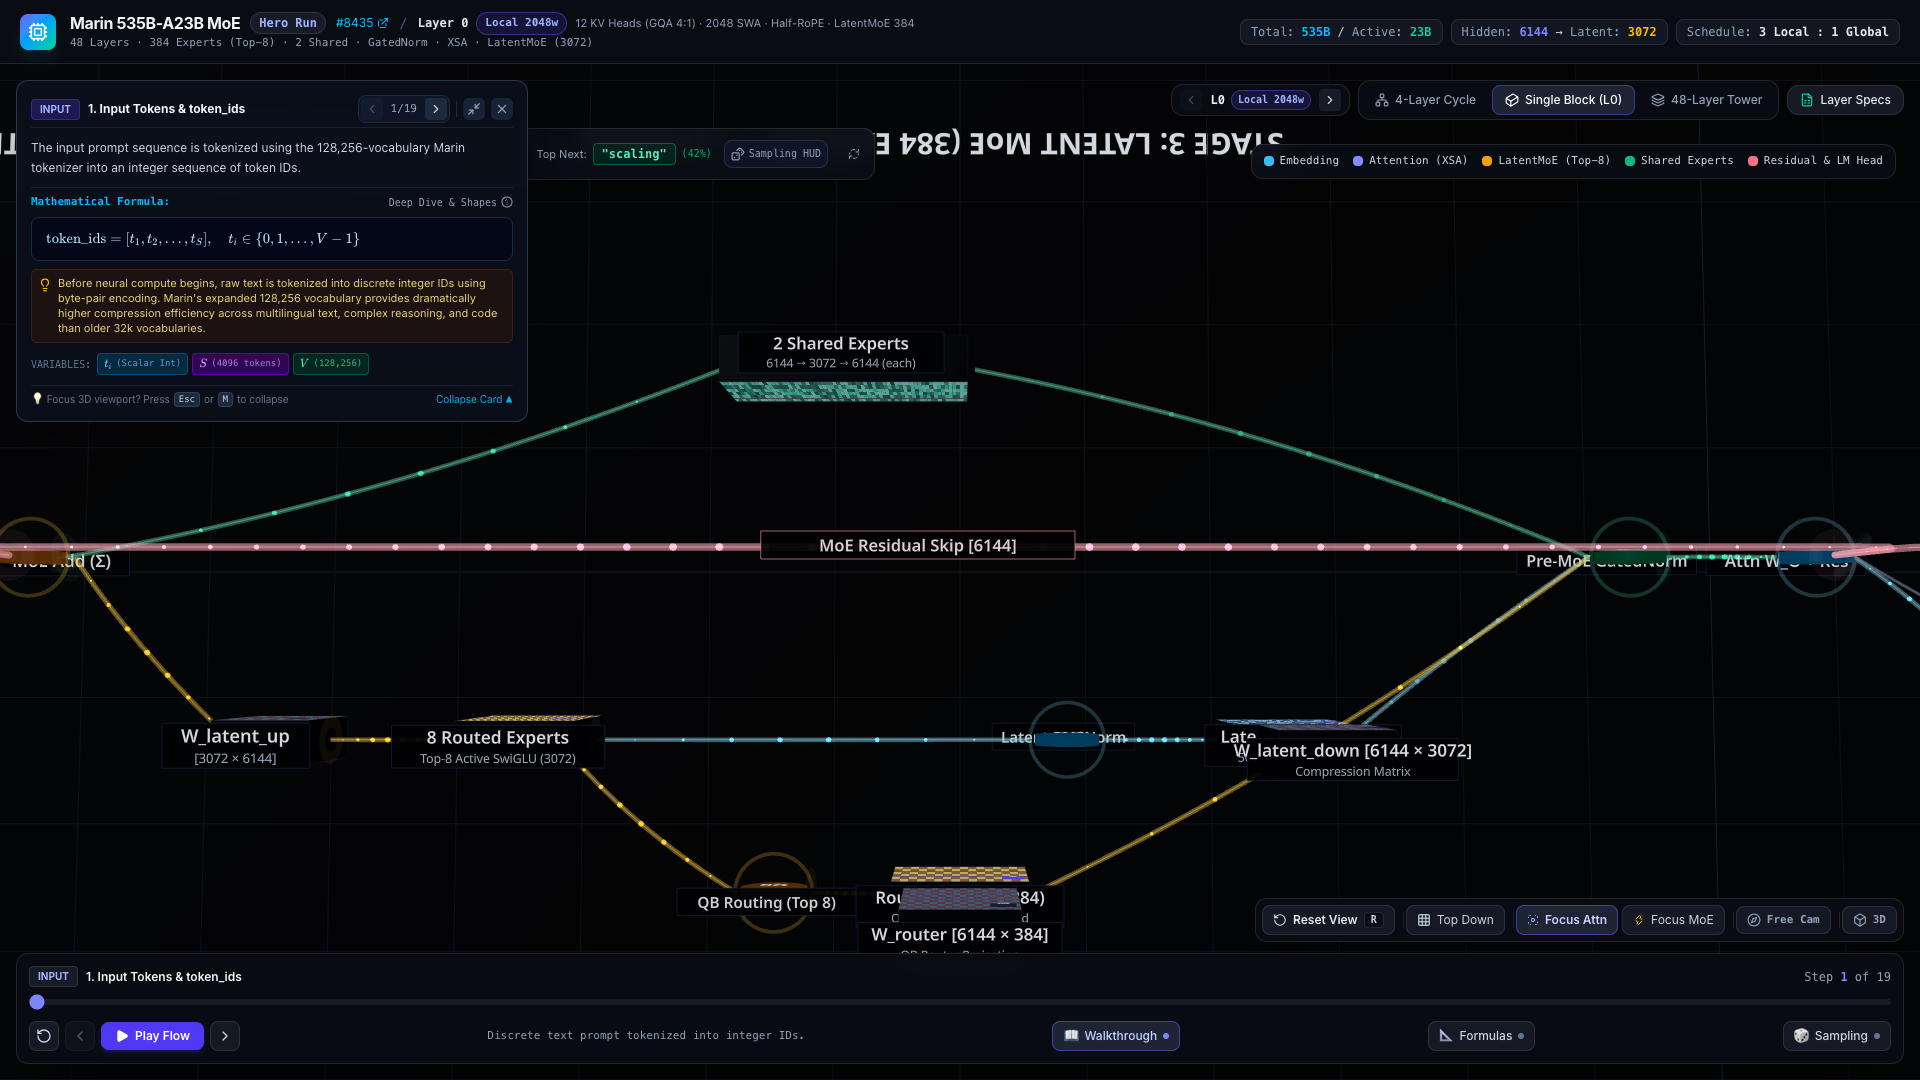
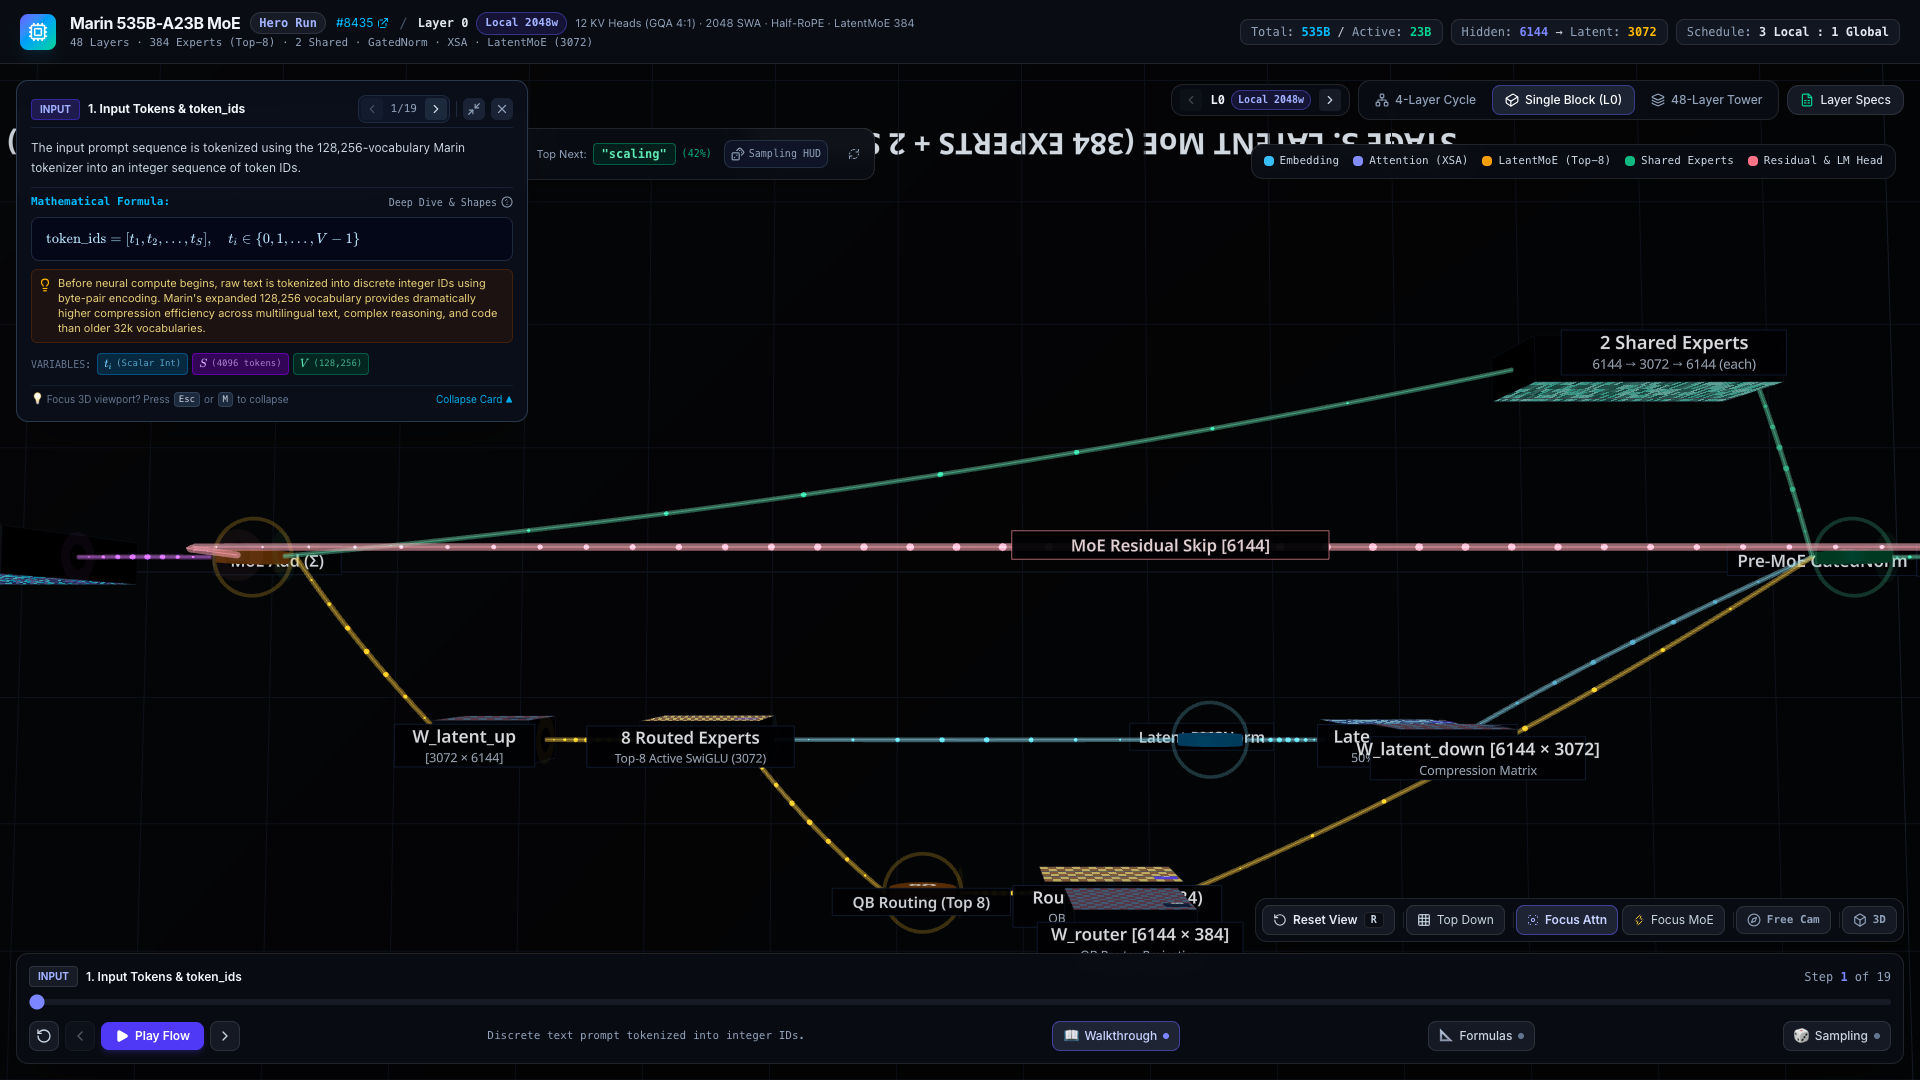
fix(visualizer): finalize Zero-X-Collision layout with precise 100% non-overlapping coordinate spread

diff --git a/src/components/ThreeScene/MicroBlockView.tsx b/src/components/ThreeScene/MicroBlockView.tsx
@@ -645,7 +645,7 @@ export const MicroBlockView: React.FC<MicroBlockViewProps> = ({
       {/* Flow to Router */}
       <FlowConnection
         from={[16.55, 2.0, 0]}
-        to={[24.0, 1.8, -4.5]}
+        to={[25.0, 1.8, -4.5]}
         color="#f59e0b"
         isHighlighted={isFlowActive(isStep('router_qb_selection'), ['op_moe_gn', 'node_router'])}
         label="Router In"
@@ -656,7 +656,7 @@ export const MicroBlockView: React.FC<MicroBlockViewProps> = ({
         id="node_w_router"
         label="W_router [6144 × 384]"
         subLabel="QB Router Projection"
-        position={[25.0, 4.2, -4.5]}
+        position={[26.0, 4.2, -4.5]}
         size={[1.4, 1.6, 0.6]}
         gridRows={12}
         gridCols={16}
@@ -671,8 +671,8 @@ export const MicroBlockView: React.FC<MicroBlockViewProps> = ({
 
       {/* W_router Weight into Router */}
       <FlowConnection
-        from={[25.0, 3.4, -4.5]}
-        to={[25.0, 2.5, -4.5]}
+        from={[26.0, 3.4, -4.5]}
+        to={[26.0, 2.5, -4.5]}
         color="#64748b"
         tubeRadius={0.02}
         particleCount={4}
@@ -684,7 +684,7 @@ export const MicroBlockView: React.FC<MicroBlockViewProps> = ({
         id="node_router"
         label="Router (Top-8 of 384)"
         subLabel="QB Threshold & Sigmoid"
-        position={[25.0, 1.8, -4.5]}
+        position={[26.0, 1.8, -4.5]}
         size={[1.8, 1.4, 0.5]}
         gridRows={activationData.tokens.length}
         gridCols={16}
@@ -698,8 +698,8 @@ export const MicroBlockView: React.FC<MicroBlockViewProps> = ({
 
       {/* Router Matrix to QB Operator */}
       <FlowConnection
-        from={[25.9, 1.8, -4.5]}
-        to={[27.0, 1.8, -4.5]}
+        from={[26.9, 1.8, -4.5]}
+        to={[28.0, 1.8, -4.5]}
         color="#f59e0b"
         isHighlighted={isFlowActive(isStep('router_qb_selection'), ['node_router', 'op_router_qb'])}
       />
@@ -709,7 +709,7 @@ export const MicroBlockView: React.FC<MicroBlockViewProps> = ({
         id="op_router_qb"
         name="QB Routing (Top 8)"
         symbol="QB"
-        position={[27.5, 1.8, -4.5]}
+        position={[28.5, 1.8, -4.5]}
         color="#f59e0b"
         isHighlighted={isHighlighted('op_router_qb')}
         onHover={onHoverItem}
@@ -722,7 +722,7 @@ export const MicroBlockView: React.FC<MicroBlockViewProps> = ({
         id="node_experts_shared"
         label="2 Shared Experts"
         subLabel="6144 → 3072 → 6144 (each)"
-        position={[26.5, 2.2, 2.5]}
+        position={[19.0, 2.2, 2.5]}
         size={[64 * DIM_W, 1.6, 0.6]}
         gridRows={activationData.tokens.length}
         gridCols={64}
@@ -738,7 +738,7 @@ export const MicroBlockView: React.FC<MicroBlockViewProps> = ({
       {/* Full-Width mlp_in into 2 Shared Experts */}
       <FlowConnection
         from={[16.55, 2.0, 0]}
-        to={[24.8, 2.2, 2.5]}
+        to={[17.4, 2.2, 2.5]}
         color="#10b981"
         isHighlighted={isFlowActive(isStep('shared_experts_swiglu'), ['op_moe_gn', 'node_experts_shared'])}
         label="Full Width [6144]"
@@ -748,7 +748,7 @@ export const MicroBlockView: React.FC<MicroBlockViewProps> = ({
       {/* Branch to Latent Down */}
       <FlowConnection
         from={[16.55, 2.0, 0]}
-        to={[19.6, 1.0, -2.5]}
+        to={[21.1, 1.0, -2.5]}
         color="#38bdf8"
         isHighlighted={isFlowActive(isStep('latent_compression'), ['op_moe_gn', 'node_latent_down'])}
         label="Compress 6144→3072"
@@ -759,7 +759,7 @@ export const MicroBlockView: React.FC<MicroBlockViewProps> = ({
         id="node_w_latent_down"
         label="W_latent_down [6144 × 3072]"
         subLabel="Compression Matrix"
-        position={[20.5, 3.6, -2.5]}
+        position={[22.0, 3.4, -2.5]}
         size={[1.4, 1.4, 0.6]}
         gridRows={12}
         gridCols={12}
@@ -774,8 +774,8 @@ export const MicroBlockView: React.FC<MicroBlockViewProps> = ({
 
       {/* W_latent_down Weight into Latent Down Matrix */}
       <FlowConnection
-        from={[20.5, 2.8, -2.5]}
-        to={[20.5, 1.8, -2.5]}
+        from={[22.0, 2.6, -2.5]}
+        to={[22.0, 1.8, -2.5]}
         color="#64748b"
         tubeRadius={0.02}
         particleCount={4}
@@ -787,7 +787,7 @@ export const MicroBlockView: React.FC<MicroBlockViewProps> = ({
         id="node_latent_down"
         label="Latent Vector (3072)"
         subLabel="50% Comms Reduction"
-        position={[20.5, 1.0, -2.5]}
+        position={[22.0, 1.0, -2.5]}
         size={[32 * DIM_W, 1.4, 0.5]}
         gridRows={activationData.tokens.length}
         gridCols={32}
@@ -802,8 +802,8 @@ export const MicroBlockView: React.FC<MicroBlockViewProps> = ({
 
       {/* Latent Down to Latent RMSNorm */}
       <FlowConnection
-        from={[21.4, 1.0, -2.5]}
-        to={[23.0, 1.0, -2.5]}
+        from={[22.9, 1.0, -2.5]}
+        to={[24.0, 1.0, -2.5]}
         color="#38bdf8"
         isHighlighted={isFlowActive(isStep('latent_compression'), ['node_latent_down', 'op_latent_norm'])}
         label="RMSNorm"
@@ -814,7 +814,7 @@ export const MicroBlockView: React.FC<MicroBlockViewProps> = ({
         id="op_latent_norm"
         name="Latent RMSNorm"
         symbol="LN"
-        position={[23.5, 1.0, -2.5]}
+        position={[24.5, 1.0, -2.5]}
         color="#38bdf8"
         isHighlighted={isHighlighted('op_latent_norm')}
         onHover={onHoverItem}
@@ -824,8 +824,8 @@ export const MicroBlockView: React.FC<MicroBlockViewProps> = ({
 
       {/* QB Router to 8 Routed Experts: Gating dispatch */}
       <FlowConnection
-        from={[28.0, 1.8, -4.5]}
-        to={[30.5, 1.4, -2.5]}
+        from={[29.0, 1.8, -4.5]}
+        to={[31.0, 1.4, -2.5]}
         color="#f59e0b"
         curveHeight={1.2}
         isHighlighted={isFlowActive(isStep('router_qb_selection') || isStep('routed_experts_swiglu'), ['op_router_qb', 'node_experts_routed'])}
@@ -834,8 +834,8 @@ export const MicroBlockView: React.FC<MicroBlockViewProps> = ({
 
       {/* Latent RMSNorm into 8 Routed Experts */}
       <FlowConnection
-        from={[24.0, 1.0, -2.5]}
-        to={[30.1, 1.0, -2.5]}
+        from={[25.0, 1.0, -2.5]}
+        to={[30.6, 1.0, -2.5]}
         color="#38bdf8"
         isHighlighted={isFlowActive(isStep('routed_experts_swiglu'), ['op_latent_norm', 'node_experts_routed'])}
         label="Latent [3072]"
@@ -846,7 +846,7 @@ export const MicroBlockView: React.FC<MicroBlockViewProps> = ({
         id="node_experts_routed"
         label="8 Routed Experts"
         subLabel="Top-8 Active SwiGLU (3072)"
-        position={[31.0, 1.0, -2.5]}
+        position={[31.5, 1.0, -2.5]}
         size={[32 * DIM_W, 1.8, 0.6]}
         gridRows={8}
         gridCols={32}
@@ -889,7 +889,7 @@ export const MicroBlockView: React.FC<MicroBlockViewProps> = ({
 
       {/* Routed Experts → W_latent_up (matrix multiply 3072→6144) */}
       <FlowConnection
-        from={[31.9, 1.0, -2.5]}
+        from={[32.4, 1.0, -2.5]}
         to={[33.8, 1.0, -2.5]}
         color="#f59e0b"
         isHighlighted={isFlowActive(isStep('routed_experts_swiglu') || isStep('moe_aggregation_residual'), ['node_experts_routed', 'node_w_latent_up'])}
@@ -898,8 +898,8 @@ export const MicroBlockView: React.FC<MicroBlockViewProps> = ({
 
       {/* Shared Experts to MoE Add */}
       <FlowConnection
-        from={[28.2, 2.2, 2.5]}
-        to={[37.0, 2.0, 0]}
+        from={[20.6, 2.2, 2.5]}
+        to={[37.0, 2.2, 0]}
         color="#10b981"
         isHighlighted={isFlowActive(isStep('shared_experts_swiglu') || isStep('moe_aggregation_residual'), ['node_experts_shared', 'op_moe_add'])}
         label="Shared Out [6144]"

diff --git a/src/data/stepDefinitions.ts b/src/data/stepDefinitions.ts
@@ -206,8 +206,8 @@ const RAW_FORWARD_STEPS: Omit<ForwardStep, 'formulaData'>[] = [
     realShape: 'Logits: [4096, 384], Selected: [4096, 8]',
     visualShape: 'Logits: [6, 24], Selected: [6, 8]',
     hardwareSignificance: 'QB (Quantile Balancing) dynamically balances load across GPU nodes without intrusive auxiliary balance loss penalties.',
-    cameraFocus: [25.5, 4.2, -4.5],
-    cameraPos: [25.5, 8.0, 3.0],
+    cameraFocus: [26.5, 4.2, -4.5],
+    cameraPos: [26.5, 8.0, 3.0],
     activeNodeIds: ['node_router', 'op_router_qb'],
   },
   {
@@ -254,8 +254,8 @@ const RAW_FORWARD_STEPS: Omit<ForwardStep, 'formulaData'>[] = [
     realShape: '2 x [6144 -> 3072 -> 6144]',
     visualShape: '2 x [64 -> 32 -> 64]',
     hardwareSignificance: 'Ensures fundamental syntactic & reasoning patterns are shared across all tokens without occupying routing capacity.',
-    cameraFocus: [26.5, 4.2, 2.5],
-    cameraPos: [26.5, 8.0, 9.5],
+    cameraFocus: [19.0, 4.2, 2.5],
+    cameraPos: [19.0, 8.0, 9.5],
     activeNodeIds: ['node_experts_shared'],
   },
   {
